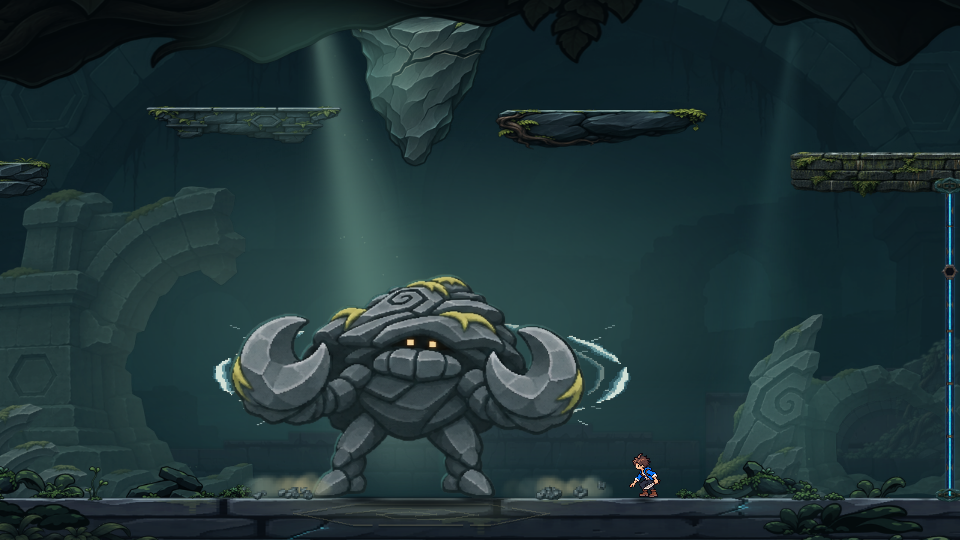
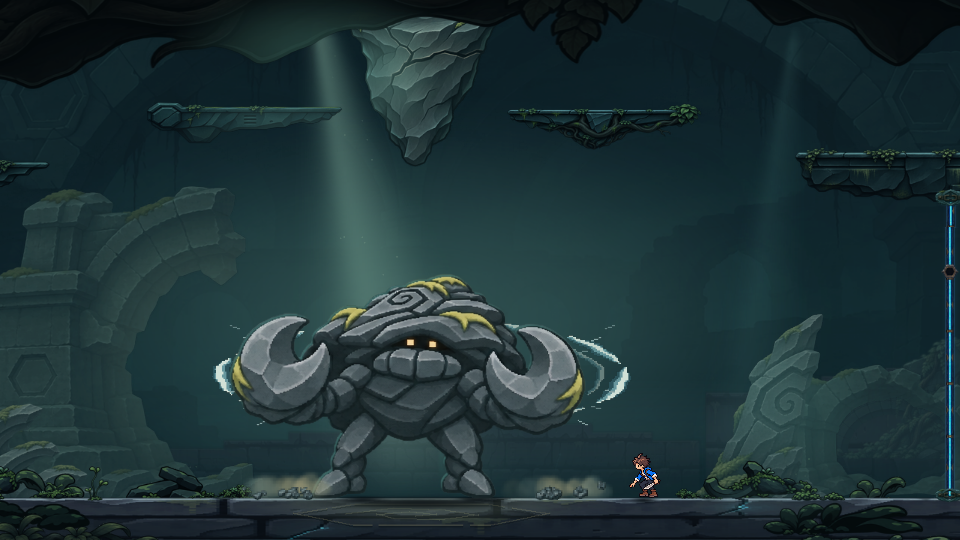
첫 전투방 화풍으로 B1 전용 공중 발판 제작

diff --git a/tools/b1_combat_terrain.py b/tools/b1_combat_terrain.py
@@ -9,17 +9,17 @@ from tools.render_b1_roar_preview import resize, rgba
 
 
 TERRAIN_ART = ROOT / "assets/terrain"
-PLATFORM_ART = TERRAIN_ART / "ruin-platforms"
+PLATFORM_ART = ART.parent / "platforms-v1"
 DECOR = TERRAIN_ART / "moss-grotto-floor-decor"
 FLOOR_SOURCE = TERRAIN_ART / "ruins-floor-blue-fissures-v1.png"
 RAIL_CENTERS = (387, 1795)
 
 # Existing B1 art positions: left, walking surface, width, underside of the rock.
 LEDGES = (
-    ("root-wedge", 142, 252, 449, 323),
-    ("carved-buttress", 724, 179, 257, 227),
-    ("short-root-step", 1204, 183, 257, 236),
-    ("waterworn-sill", 1588, 239, 449, 307),
+    ("sluice-crown", 142, 252, 449, 323),
+    ("counterweight-step", 724, 179, 257, 227),
+    ("root-keystone", 1204, 183, 257, 236),
+    ("aqueduct-crown", 1588, 239, 449, 307),
 )
 
 # Low clumps on the walking surface leave clear stretches under the boss and player.
@@ -122,8 +122,10 @@ def _place_rails(canvas, platforms):
         canvas.alpha_composite(resize(source, (12, length)), (x - 6, anchor))
     for name, left, top, width, bottom in LEDGES:
         _place_ledge(canvas, platforms[name], left, top, width, bottom)
-    for x, ledge in zip(RAIL_CENTERS, (LEDGES[0], LEDGES[-1])):
-        canvas.alpha_composite(top_mount, (x - top_mount.width // 2, ledge[2] + 28))
+    # Mount the right bracket on the underside of the new arch pier.
+    mount_tops = (LEDGES[0][2] + 28, LEDGES[-1][4] - 24)
+    for x, top in zip(RAIL_CENTERS, mount_tops):
+        canvas.alpha_composite(top_mount, (x - top_mount.width // 2, top))
         canvas.alpha_composite(foot_mount, (x - foot_mount.width // 2, GROUND - 19))
         canvas.alpha_composite(carriage, (x - carriage.width // 2, 389))
 

diff --git a/assets/concepts/b1-hermit-crab/platforms-v1/prompts.md b/assets/concepts/b1-hermit-crab/platforms-v1/prompts.md
@@ -1,0 +1,59 @@
+# B1 전당 전용 발판 프롬프트
+
+내장 ImageGen의 투명 배경 모드로 네 형태를 각각 생성했다. 이후 각 원화를 첫 전투방의 플랫폼 원화와 SDL 화면을 스타일 참고로 넣어 다시 칠했다. 첫 전투방의 청록 그림자, 얇은 착지면 반사광, 잎 군집 표현을 적용했다. 프로젝트 참고 자료 SS-MG-03의 이끼 밀도 차이와 어두운 하부 실루엣, HK-GP07의 구조물과 식생 명암 분리를 참고했다. 최종 이미지는 투명 PNG로 저장했다.
+
+## sluice-crown
+
+### 형태 원화
+
+```text
+Use case: stylized-concept. Create ONE original, production-ready isolated 2D side-view platform sprite for RelicEscape's flooded underground guardian hall. Transparent RGBA background, fully transparent outside silhouette and in holes. Landscape canvas. Center the single object horizontally with a generous transparent margin. Exact gameplay side view, an uninterrupted straight horizontal walkable top edge spans almost its full width and reads as a pale worn stone bevel; front face and irregular underside are visible below it. Match hand-painted, clean dark contours, large faceted stone planes and subtle texture of a dark fantasy 2D game: dark petroleum blue-gray slate, restrained cool gray-green top highlights, dark teal occlusion, only muted olive moss or aged brass if specified. No heavy outline, realistic room lighting, pedestal, extra objects, shadows outside object, top-down view, grid, text, game logos, glow, or visible backdrop. It must read clearly when reduced to 257–449 px wide. Entire shape cut out, edge-to-edge details kept inside the silhouette. Wide left outer platform, width about 6 times depth. A dislodged ancient sluice-gate lintel with a slight upward-curled carved ear at the far left (the flat floor stays below it), left-heavy stepped fluted stone hanging underneath, three broad worn channels engraved into the front, and a deep staggered break tapering into a single stone lip at its right end. Small patches of moss concentrated at the left crack only. Around 54% of the way from left to right, leave a solid, uninterrupted dark slate face directly below the walk line for an external rail bracket. Cut the lower silhouette into two large stepped masses with a visible concave gap off-center, no repeating brick pattern.
+```
+
+### 첫 전투방 화풍으로 보정
+
+```text
+Use case: style-transfer. Image 1 is the exact new RelicEscape B1 platform to repaint. Images 2 and 3 show the material, drawing style and palette of RelicEscape's existing first combat room, including its foreground platform foliage. Take only the coloring and brushwork from 2 and 3. Keep the unique architectural design and exact general silhouette of Image 1, with the same horizontal straight continuous walkable edge at the same height. Preserve its width-to-height ratio, positions of all major forms, inner holes, and transparent cutout. Repaint the surfaces as original, hand-painted dark fantasy platform art: deep petroleum teal stone, almost-black cool crevices, larger simplified stone planes with clean dark contours and broad smooth illumination, no tiny photographic grain, no beige or white highlighted cap line. Rim catches a muted cool blue-green light and remains clearly walkable. Add a few clumps of round dark green leaves and moss right on the upper lip, embedded and overlapping the stone as in the style references, with some short trails hanging over isolated cracks. Most of the walking line remains level. Keep the far lithic body dark enough to belong with the combat room art shown. Keep the face from Image 1 clearly visible through the vegetation. Preserve transparent RGBA background everywhere outside and at any holes, with no ambience, no black fill, no extra cutouts or labels. Render one platform only, entire cutout, same side-on orientation and centering as Image 1. Preserve the tall small curled ear at the left edge, the three long fluted carving grooves, the two stepped underside masses and a clear face around the middle-right rail mount. Use separated small organic moss clusters and short dark strips over the lip. Keep the central body sharply carved.
+```
+
+## counterweight-step
+
+### 형태 원화
+
+```text
+Use case: stylized-concept. Create ONE original, production-ready isolated 2D side-view platform sprite for RelicEscape's flooded underground guardian hall. Transparent RGBA background, fully transparent outside silhouette and in holes. Landscape canvas. Center the single object horizontally with a generous transparent margin. Exact gameplay side view, an uninterrupted straight horizontal walkable top edge spans almost its full width and reads as a pale worn stone bevel; front face and irregular underside are visible below it. Match hand-painted, clean dark contours, large faceted stone planes and subtle texture of a dark fantasy 2D game: dark petroleum blue-gray slate, restrained cool gray-green top highlights, dark teal occlusion, only muted olive moss or aged brass if specified. No heavy outline, realistic room lighting, pedestal, extra objects, shadows outside object, top-down view, grid, text, game logos, glow, or visible backdrop. It must read clearly when reduced to 257–449 px wide. Entire shape cut out, edge-to-edge details kept inside the silhouette. Short inner-left platform, width about 5 times depth. A broken solid octagonal counterweight built into a shallow capstone, asymmetric blunt one-piece slate body, with a single heavy truncated trapezoidal tooth on its left-to-middle underside and a chipped, narrow right tip. Small recessed three-stroke water-level engravings on its front, pitted pale bevel on walkway, almost no moss except two tiny growths in one seam. The horizontal top remains clear and flat, keep the underside angular, clean and unmistakably different from a brick shelf or root island.
+```
+
+### 첫 전투방 화풍으로 보정
+
+```text
+Use case: style-transfer. Image 1 is the exact new RelicEscape B1 platform to repaint. Images 2 and 3 show the material, drawing style and palette of RelicEscape's existing first combat room, including its foreground platform foliage. Take only the coloring and brushwork from 2 and 3. Keep the unique architectural design and exact general silhouette of Image 1, with the same horizontal straight continuous walkable edge at the same height. Preserve its width-to-height ratio, positions of all major forms, inner holes, and transparent cutout. Repaint the surfaces as original, hand-painted dark fantasy platform art: deep petroleum teal stone, almost-black cool crevices, larger simplified stone planes with clean dark contours and broad smooth illumination, no tiny photographic grain, no beige or white highlighted cap line. Rim catches a muted cool blue-green light and remains clearly walkable. Add a few clumps of round dark green leaves and moss right on the upper lip, embedded and overlapping the stone as in the style references, with some short trails hanging over isolated cracks. Most of the walking line remains level. Keep the far lithic body dark enough to belong with the combat room art shown. Keep the face from Image 1 clearly visible through the vegetation. Preserve transparent RGBA background everywhere outside and at any holes, with no ambience, no black fill, no extra cutouts or labels. Render one platform only, entire cutout, same side-on orientation and centering as Image 1. Preserve the heavy one-piece octagonal left end, its low trapezoidal tooth and the three small recessed dashes. Give the flat top a thin green moss strip with breaks and two small leaf clusters near the left and middle. No moss over the three dashes.
+```
+
+## root-keystone
+
+### 형태 원화
+
+```text
+Use case: stylized-concept. Create ONE original, production-ready isolated 2D side-view platform sprite for RelicEscape's flooded underground guardian hall. Transparent RGBA background, fully transparent outside silhouette and in holes. Landscape canvas. Center the single object horizontally with a generous transparent margin. Exact gameplay side view, an uninterrupted straight horizontal walkable top edge spans almost its full width and reads as a pale worn stone bevel; front face and irregular underside are visible below it. Match hand-painted, clean dark contours, large faceted stone planes and subtle texture of a dark fantasy 2D game: dark petroleum blue-gray slate, restrained cool gray-green top highlights, dark teal occlusion, only muted olive moss or aged brass if specified. No heavy outline, realistic room lighting, pedestal, extra objects, shadows outside object, top-down view, grid, text, game logos, glow, or visible backdrop. It must read clearly when reduced to 257–449 px wide. Entire shape cut out, edge-to-edge details kept inside the silhouette. Short inner-right platform, width about 5 times depth. A single fractured keystone with a prominent rounded root saddle cradling the underside in an asymmetric crescent and two fine short root ends to the right. Two thick cracked charcoal slate plates sit on top, centered heavy tapered belly below with clearly visible tangled root silhouette, and a cluster of matte olive leaves pushed to the right end. Roots belong below the horizontal stone walking edge. Keep the shape compact and organically curved, not a log or a rectangular block.
+```
+
+### 첫 전투방 화풍으로 보정
+
+```text
+Use case: style-transfer. Image 1 is the exact new RelicEscape B1 platform to repaint. Images 2 and 3 show the material, drawing style and palette of RelicEscape's existing first combat room, including its foreground platform foliage. Take only the coloring and brushwork from 2 and 3. Keep the unique architectural design and exact general silhouette of Image 1, with the same horizontal straight continuous walkable edge at the same height. Preserve its width-to-height ratio, positions of all major forms, inner holes, and transparent cutout. Repaint the surfaces as original, hand-painted dark fantasy platform art: deep petroleum teal stone, almost-black cool crevices, larger simplified stone planes with clean dark contours and broad smooth illumination, no tiny photographic grain, no beige or white highlighted cap line. Rim catches a muted cool blue-green light and remains clearly walkable. Add a few clumps of round dark green leaves and moss right on the upper lip, embedded and overlapping the stone as in the style references, with some short trails hanging over isolated cracks. Most of the walking line remains level. Keep the far lithic body dark enough to belong with the combat room art shown. Keep the face from Image 1 clearly visible through the vegetation. Preserve transparent RGBA background everywhere outside and at any holes, with no ambience, no black fill, no extra cutouts or labels. Render one platform only, entire cutout, same side-on orientation and centering as Image 1. Preserve the asymmetrical curved root saddle, large central keystone, fine roots below, and leaf cluster toward the right. Repaint the roots almost black, with dark cold green edge color and small grouped foliage. Keep the exposed original stone planes above the root saddle.
+```
+
+## aqueduct-crown
+
+### 형태 원화
+
+```text
+Use case: stylized-concept. Create ONE original, production-ready isolated 2D side-view platform sprite for RelicEscape's flooded underground guardian hall. Transparent RGBA background, fully transparent outside silhouette and in holes. Landscape canvas. Center the single object horizontally with a generous transparent margin. Exact gameplay side view, an uninterrupted straight horizontal walkable top edge spans almost its full width and reads as a pale worn stone bevel; front face and irregular underside are visible below it. Match hand-painted, clean dark contours, large faceted stone planes and subtle texture of a dark fantasy 2D game: dark petroleum blue-gray slate, restrained cool gray-green top highlights, dark teal occlusion, only muted olive moss or aged brass if specified. No heavy outline, realistic room lighting, pedestal, extra objects, shadows outside object, top-down view, grid, text, game logos, glow, or visible backdrop. It must read clearly when reduced to 257–449 px wide. Entire shape cut out, edge-to-edge details kept inside the silhouette. Wide right outer platform, width about 6.5 times depth. A fallen crown from a large ancient aqueduct with a flat horizontal broken parapet top and a clean LOWER silhouette made of one shallow broad negative-space arch scallop at the right third, held by a pair of chunky uneven stepped voussoir buttresses. An incised long shallow channel across the front, one chipped lower stone at the far right, rare tiny hanging roots below the opening. Slight desaturated pale gray-green mineral stains below the channel. Keep a solid uninterrupted stone face at 46% from the left, immediately beneath the walking edge, where a rail bracket will be overlaid. Distinct low bridge-like silhouette, no identical bricks, no disembodied objects.
+```
+
+### 첫 전투방 화풍으로 보정
+
+```text
+Use case: style-transfer. Image 1 is the exact new RelicEscape B1 platform to repaint. Images 2 and 3 show the material, drawing style and palette of RelicEscape's existing first combat room, including its foreground platform foliage. Take only the coloring and brushwork from 2 and 3. Keep the unique architectural design and exact general silhouette of Image 1, with the same horizontal straight continuous walkable edge at the same height. Preserve its width-to-height ratio, positions of all major forms, inner holes, and transparent cutout. Repaint the surfaces as original, hand-painted dark fantasy platform art: deep petroleum teal stone, almost-black cool crevices, larger simplified stone planes with clean dark contours and broad smooth illumination, no tiny photographic grain, no beige or white highlighted cap line. Rim catches a muted cool blue-green light and remains clearly walkable. Add a few clumps of round dark green leaves and moss right on the upper lip, embedded and overlapping the stone as in the style references, with some short trails hanging over isolated cracks. Most of the walking line remains level. Keep the far lithic body dark enough to belong with the combat room art shown. Keep the face from Image 1 clearly visible through the vegetation. Preserve transparent RGBA background everywhere outside and at any holes, with no ambience, no black fill, no extra cutouts or labels. Render one platform only, entire cutout, same side-on orientation and centering as Image 1. Preserve exactly the shallow arch-shaped opening in the bottom right and its two stepped supports. The negative space stays genuinely transparent and clear. Render irregular intermittent small round-leaf groups at the upper lip and some damp green staining on the front. Leave a solid exposed dark stone face just under the top center-left for the rail bracket.
+```

diff --git a/.memoc/04-handoff.md b/.memoc/04-handoff.md
@@ -25,7 +25,7 @@ Last synced: 2026-11-05T03:23:05
 
 - 2026-11-26 [하단 동선 v2 미술](../docs/map1-art-direction.md)을 본편에 적용했다. `lower_route_atmosphere.py`는 원경 시차와 틈빛을, `tools.bake_lower_route_art`는 기존 A·C 원화에서 지형과 장치를 남기는 이미지 작업을 담당한다. [SDL 6장](../docs/map1-lower-route-runtime.jpg). 전체화면 수동 조작 체감과 장치별 렌더 성능은 미측정이다.
 
-- 2026-11-27 B1 게임 테스트의 방 미술 기준은 [room-art-v5](../assets/concepts/b1-hermit-crab/room-art-v5/README.md)다. `tools/b1_room_art.py`는 v4 원경·중경에 천장 광막, 중원경 계단과 반사광을 합성한다. `tools/b1_combat_terrain.py`는 기존 좌표로 석판·발판·레일을 그린다. 배우 윤곽광과 입자는 포효 테스트에서 검수했다. 본편 연결과 암석 타격·낙하를 포함한 실제 전투 판정은 후속이다.
+- 2026-11-27 B1 게임 테스트의 방 미술 기준은 [room-art-v5](../assets/concepts/b1-hermit-crab/room-art-v5/README.md)다. `tools/b1_room_art.py`는 v4 원경·중경에 천장 광막, 중원경 계단과 반사광을 합성한다. `tools/b1_combat_terrain.py`는 [B1 전용 발판](../assets/concepts/b1-hermit-crab/platforms-v1/README.md) 네 개를 기존 착지 좌표에 맞춰 석판·레일과 그린다. 배우 윤곽광과 입자는 포효 테스트에서 검수했다. 본편 연결과 암석 타격·낙하를 포함한 실제 전투 판정은 후속이다.
 
 - 2026-11-26 B1 포효 v4를 `tools.preview_b1_roar_game`에서 실제 SDL 텍스처·플레이어·카메라로 재생한다. 게임 화면을 저장하려면 `--capture <WebP 경로>`를 붙인다. [실행과 캡처](../assets/concepts/b1-hermit-crab/roar-v4/README.md). 본편의 C→B1 이동과 전투는 아직 연결하지 않았다.
 

diff --git a/assets/concepts/b1-hermit-crab/room-art-v5/README.md b/assets/concepts/b1-hermit-crab/room-art-v5/README.md
@@ -21,7 +21,7 @@ B1은 게임의 카메라, 플레이어 스프라이트, SDL 렌더러를 쓰는
 ## 지형과 유물 레일
 
 - 바닥 y=703에서 아래로 마모된 프로젝트 석판과 균열을 드러낸다. 중앙 각인, 바닥 가장자리의 잔해와 식생은 장식이다.
-- 왼쪽부터 뿌리 암반, 육각 석대, 짧은 뿌리 돌턱, 물때 낀 수로석을 사용했다. 원본의 보행선 기준점으로 기존 네 착지면에 맞췄다. [원본과 좌표 명세](../../../terrain/ruin-platforms/README.md)
+- 왼쪽부터 수문 석대, 팔각 균형추, 뿌리 쐐기돌, 부서진 수로 아치를 각각 B1 전용 원화로 제작했다. 첫 전투방의 어두운 청록 석재와 무리 지은 이끼에 맞추고 기존 네 착지면에 배치했다. [원화와 좌표 명세](../platforms-v1/README.md)
 - 레일은 x=387과 x=1795를 사용한다. 기존 운반부와 파란 코어를 유지하며 착지면 아래와 바닥에 돌 고정구를 붙였다. 광량이 낮은 파란 번짐은 레일 주변에만 들어간다.
 
 ## 실행과 검증
@@ -41,4 +41,4 @@ B1은 게임의 카메라, 플레이어 스프라이트, SDL 렌더러를 쓰는
 | Direct3D 11 | 0.43 / 0.60 ms | 0.57 / 0.85 ms |
 | SDL 소프트웨어 | 25.29 / 35.44 ms | 18.43 / 24.02 ms |
 
-[전체 방](previews/full-room.png) · [포효 화면](previews/boss-roar.png) · [입구에서 중앙까지](previews/camera-tour.webp)
+[전체 방](previews/full-room.png) · [상단 발판](previews/upper-platforms.png) · [포효 화면](previews/boss-roar.png) · [입구에서 중앙까지](previews/camera-tour.webp)

diff --git a/assets/concepts/b1-hermit-crab/platforms-v1/README.md b/assets/concepts/b1-hermit-crab/platforms-v1/README.md
@@ -1,0 +1,12 @@
+# B1 수로 전당 전용 공중 발판
+
+발판 네 개를 B1 전용 원화로 그렸다. 어두운 청록 석재, 윤곽선, 무리 지은 둥근 잎은 첫 전투방과 같은 기준으로 맞췄다. 석재 윗면의 좁은 반사광은 착지선을 보여 주고, 아랫면과 뿌리는 더 어둡게 읽힌다. [첫 전투방 상단 SDL 화면](../../../../docs/combat-readability-high.png)
+
+| 위치 | 형태 | 투명 PNG |
+| --- | --- | --- |
+| 왼쪽 바깥 | 세 줄의 물길과 두 갈래 하부가 남은 수문 석대 | [sluice-crown.png](sluice-crown.png) |
+| 왼쪽 안쪽 | 팔각 끝과 각진 추, 물높이 표시가 새겨진 균형추 | [counterweight-step.png](counterweight-step.png) |
+| 오른쪽 안쪽 | 갈라진 쐐기돌을 아래에서 뿌리가 감싼 돌턱 | [root-keystone.png](root-keystone.png) |
+| 오른쪽 바깥 | 열린 아치와 한쪽 받침이 남은 수로 석대 | [aqueduct-crown.png](aqueduct-crown.png) |
+
+기존 B1 착지면 네 곳에 새 그림을 맞추고, 오른쪽 레일 고정구는 수로 받침 하단에 붙였다. [이미지 좌표](manifest.json) · [ImageGen 프롬프트](prompts.md) · [상단 SDL 화면](../room-art-v5/previews/upper-platforms.png)

diff --git a/.memoc/02-current-project-state.md b/.memoc/02-current-project-state.md
@@ -15,6 +15,8 @@ Last synced: 2026-11-05T03:23:05
 
 ## Current Status
 
+- 2026-11-27 B1에 수문 석대·팔각 균형추·뿌리 쐐기돌·수로 아치 네 종류의 전용 발판을 적용했다. 첫 전투방의 청록 석재와 이끼 화풍에 맞추고 기존 착지 좌표·레일 중심을 유지했다. [전용 원화와 명세](../assets/concepts/b1-hermit-crab/platforms-v1/README.md)
+
 - 2026-11-27 [B1 수로 전당 v5](../assets/concepts/b1-hermit-crab/room-art-v5/README.md)를 포효 테스트에 적용했다. 보스 중심 천장빛·윤곽광, 각인 석판, 서로 다른 유적 발판 4개, 레일 고정구, 중원경 계단, 먼지와 포자를 검수했다. 발판·레일 좌표와 보스 실루엣은 기존 기준을 따른다. 본편 보스전은 미연결이다.
 
 - 2026-11-27 B1 포효 테스트에서 두 안쪽 발판 사이의 기존 균열 암석을 복원했다. SDL 전체 방과 포효 화면을 갱신했다. 은신 해제용 낙하·타격 판정은 후속이다. [B1 수로 유적](../assets/concepts/b1-hermit-crab/room-art-v4/README.md)

diff --git a/.memoc/worklog/codex/2026-11/20261127-map1-b1-original-platforms.md b/.memoc/worklog/codex/2026-11/20261127-map1-b1-original-platforms.md
@@ -1,0 +1,5 @@
+# B1 전용 발판 제작과 화풍 정리
+
+- B1 전용 수문 석대, 팔각 균형추, 뿌리 쐐기돌, 수로 아치 원화 네 개를 제작했다. 첫 전투방 원화와 SDL 화면을 스타일 참고로 다시 칠해 청록 석재의 명암과 둥근 이끼 군집을 맞췄다.
+- 기존 착지 좌표, 바닥 높이와 레일 중심을 비교해 일치함을 확인했다. 오른쪽 고정구 그림을 수로 아치 받침 하단에 맞췄다.
+- 전체 방·포효·입구·상단·왼쪽 레일의 SDL 시점과 원화 알파를 검수했다. [원화, 프롬프트와 좌표](../../../../assets/concepts/b1-hermit-crab/platforms-v1/README.md)

diff --git a/.memoc/session-summary.md b/.memoc/session-summary.md
@@ -14,7 +14,7 @@ Last: 2026-11-27 (Asia/Seoul)
 
 - 입력 대기·정점 중복 제거. 전체222개 통과. `docs/runtime-performance.md`.
 - A·B·C 독립 석벽 레이어 적용. B–C 배경은 지형 전 합성.
-- B1 v5 전당 조명·석판·발판·레일 SDL 검수. 본편 미연결.
+- B1 v5 전용 발판 4개를 첫 전투방 화풍으로 제작. 본편 미연결.
 - A 3초 발판 설치→아래→E 귀환→B. 사망 시 유지, R 초기화.
 - 공벌레→골렘→틈빛→바닥 붕괴. 수정 골렘 HP45, 방패병 HP65.
 - B 레일 무정차·왼쪽 비밀 통로. C 전실 원화 적용.
